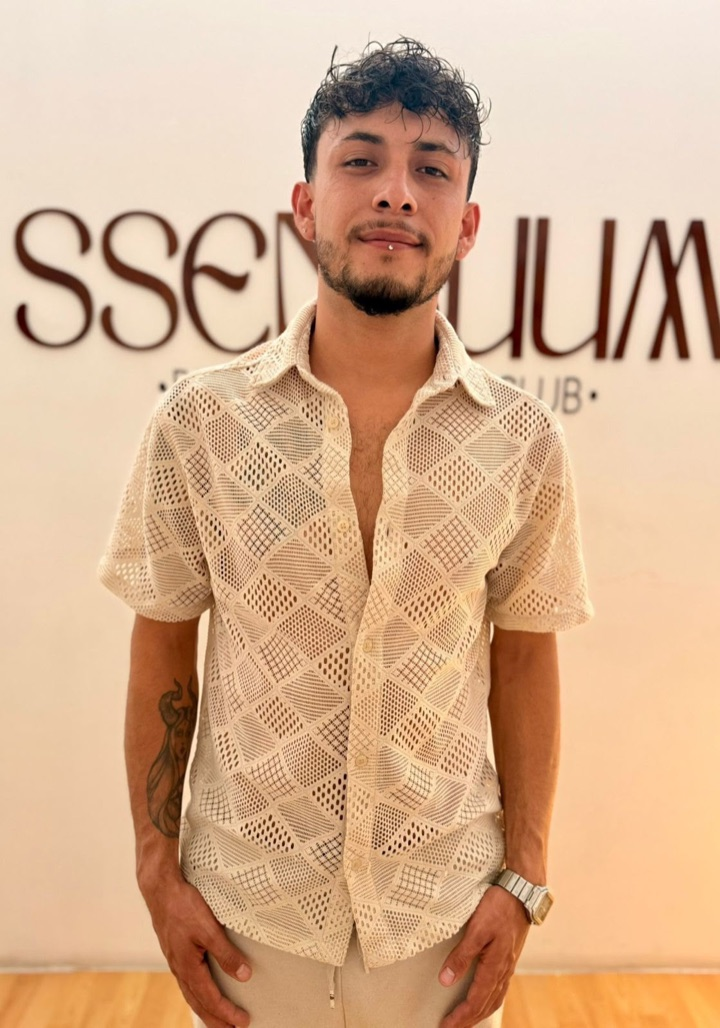
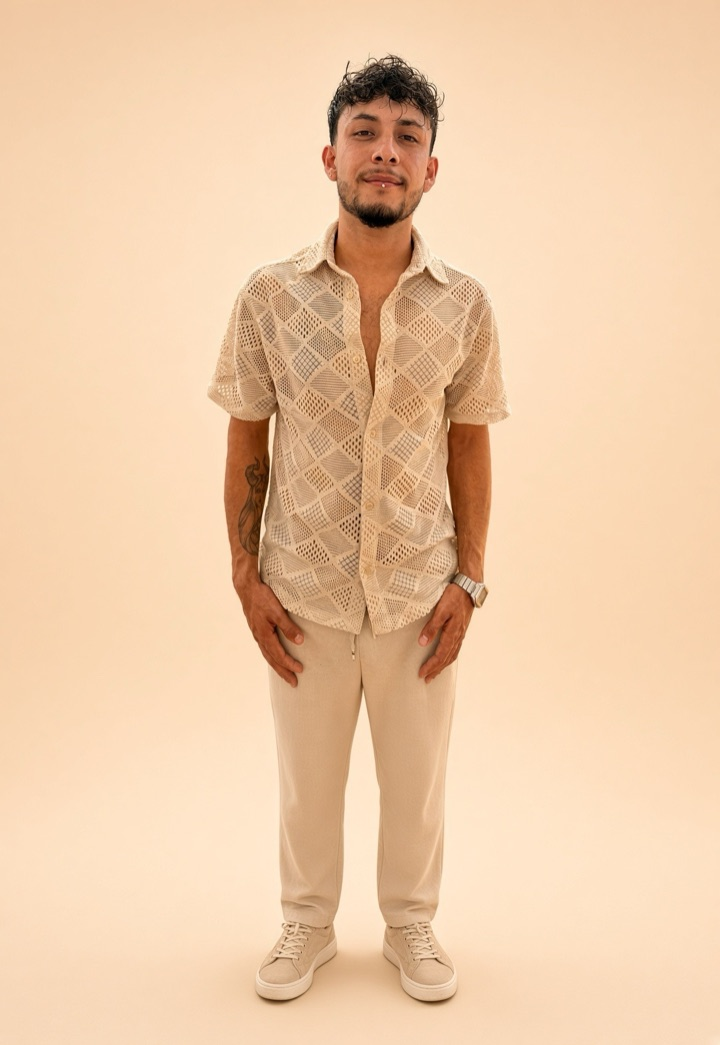
feat: service details, team bios and photos from the services brochure
- Each massage gets a "Cómo se realiza" section (new Service.details,
  synced on startup without touching prices).
- Therapists get strengths and bios from the brochure; Chicano joins the
  team; photos switch to the uniform studio shots.
- Booking summary shows the remaining balance and how to pay it; terms
  add payment methods and the birthday-massage rule; parking guidance.

diff --git a/web/app/terminos/page.tsx b/web/app/terminos/page.tsx
@@ -19,7 +19,8 @@ export default function TermsPage() {
         <ul>
           <li>Para confirmar tu reserva pagas un anticipo de <strong>$300</strong>, o de <strong>$600</strong> en servicios con dos terapeutas (masaje a 4 manos y masaje de parejas).</li>
           <li>El anticipo aplica para todos los clientes, <strong>incluidos los miembros del Private Club</strong>.</li>
-          <li>El anticipo <strong>se descuenta del total</strong> que pagas el día de tu servicio. Si eres miembro, se descuenta de tu precio de miembro.</li>
+          <li>El anticipo <strong>se descuenta del total</strong> que pagas el día de tu servicio. Si eres miembro, se descuenta de tu precio de miembro (por ejemplo, $1,200 − $300 = $900 restantes).</li>
+          <li>El restante se paga en el club con <strong>tarjeta, transferencia, efectivo o terminal bancaria</strong>.</li>
           <li>Los pagos en línea se procesan con Mercado Pago. Mientras pagas, tu horario queda apartado durante 15 minutos; si el pago no se completa en ese tiempo, el horario se libera.</li>
         </ul>
       </section>
@@ -47,6 +48,7 @@ export default function TermsPage() {
         <h2>Durante tu visita</h2>
         <ul>
           <li>Si la presión o el ambiente no son lo que esperabas, dínoslo: lo ajustamos durante los primeros 10 minutos de tu sesión.</li>
+          <li>El masaje de cumpleaños de la membresía Private Club es sin costo y sin anticipo, y se usa en la semana de tu cumpleaños. Si no asistes, se pierde el canje de ese año.</li>
           <li>Los tratamientos de medicina estética requieren una valoración previa y solo se realizan si el profesional de salud los considera adecuados para ti.</li>
         </ul>
       </section>

diff --git a/web/features/booking/BookingClient.tsx b/web/features/booking/BookingClient.tsx
@@ -205,7 +205,8 @@ export function BookingClient({ serviceId }: { serviceId: string }) {
               <div><dt>Hora</dt><dd>{time}</dd></div>
               <div><dt>Duración</dt><dd>{service.durationMinutes} min</dd></div>
               <div><dt>Total</dt><dd>{money(service.publicPrice)}</dd></div>
-              <div><dt>Anticipo</dt><dd>{money(service.deposit)}</dd></div>
+              <div><dt>Anticipo hoy</dt><dd>{money(service.deposit)}</dd></div>
+              <div><dt>Restante el día de tu cita</dt><dd>{money(service.publicPrice - service.deposit)}</dd></div>
             </dl>
             {paymentsOff ? (
               <>
@@ -229,7 +230,7 @@ export function BookingClient({ serviceId }: { serviceId: string }) {
                   {paying ? 'Abriendo Mercado Pago…' : `Pagar anticipo ${money(service.deposit)}`}
                 </button>
                 <p className="summaryNote">
-                  Pago seguro con Mercado Pago. El anticipo se descuenta del total y puedes cancelar o cambiar tu horario sin costo hasta 3 horas antes.
+                  Pago seguro con Mercado Pago. El restante lo pagas en el club con tarjeta, transferencia, efectivo o terminal; si eres miembro, se ajusta a tu precio. Puedes cancelar o cambiar tu horario sin costo hasta 3 horas antes.
                   Al pagar aceptas los <Link href="/terminos" target="_blank">términos de reserva</Link> y el <Link href="/aviso-de-privacidad" target="_blank">aviso de privacidad</Link>.
                 </p>
                 <a className="summaryLink" href={confirmUrl} target="_blank" rel="noreferrer" onClick={() => track('whatsapp_click', 'reserva-alterna')}>¿Prefieres confirmar por WhatsApp?</a>

diff --git a/web/features/catalog/Catalog.tsx b/web/features/catalog/Catalog.tsx
@@ -180,7 +180,7 @@ export function Catalog() {
           <ul>
             <li>Masajes a $1,200 en lugar de $1,500.</li>
             <li>Precio preferente en barbería y medicina estética.</li>
-            <li>Un masaje de regalo en la semana de tu cumpleaños.</li>
+            <li>Un masaje de regalo en la semana de tu cumpleaños, sin costo y sin anticipo.</li>
             <li>Doce meses desde tu fecha de inicio.</li>
           </ul>
           <p className="fusionMembershipMath"><strong>Se paga sola:</strong> 5 masajes a precio de miembro ($1,500 de ahorro) más tu masaje de cumpleaños ($1,500) suman los $3,000. Cada visita extra es ahorro.</p>
@@ -192,7 +192,7 @@ export function Catalog() {
       <section className="fusionSection fusionLocation" id="ubicacion">
         <div className="fusionSectionHeading">
           <div><span className="fusionKicker">Colonia Americana</span><h2>Dónde estamos</h2></div>
-          <p>Tenemos tres cajones para clientes frente a la finca, señalados en azul.</p>
+          <p>Tenemos tres cajones para clientes frente a la finca, señalados en azul. Las zonas en rojo son accesos y deben quedar libres; si los tres cajones están ocupados, avísanos al llegar.</p>
         </div>
         <div className="fusionLocationGrid">
           <div className="fusionLocationImage"><img src="/ssensuum/location.jpg" alt="Fachada de SSENSUUM y cajones de estacionamiento" /></div>

diff --git a/web/features/catalog/ServiceRow.tsx b/web/features/catalog/ServiceRow.tsx
@@ -16,6 +16,12 @@ export function ServiceRow({ service, onReserve, compact = false }: { service: S
           {service.therapistsRequired === 2 ? <span className="fusionTag fusionTagSoft">{service.name.toLowerCase().includes('pareja') ? 'Para dos personas' : 'Dos terapeutas'}</span> : null}
         </div>
         {!compact ? <p>{service.description}</p> : null}
+        {!compact && service.details ? (
+          <details className="fusionServiceDetails">
+            <summary>Cómo se realiza</summary>
+            <p>{service.details}</p>
+          </details>
+        ) : null}
         <small>{service.durationMinutes >= 60 ? `${Math.round(service.durationMinutes / 60 * 10) / 10} h` : `${service.durationMinutes} min`}</small>
       </div>
       <div className="fusionServicePurchase">

diff --git a/web/app/globals.css b/web/app/globals.css
@@ -587,3 +587,8 @@ svg { width: 1em; height: 1em; }
 }
 
 .avatar.hasPhoto { object-fit: cover; object-position: center 20%; padding: 0; }
+
+/* ========================= CÓMO SE REALIZA ========================= */
+.fusionServiceDetails { margin-top: 8px; }
+.fusionServiceDetails summary { width: fit-content; color: var(--nogal); font-size: .85rem; font-weight: 600; cursor: pointer; }
+.fusionServiceDetails p { margin: 8px 0 0; font-size: .88rem; line-height: 1.55; }

diff --git a/web/lib/types.ts b/web/lib/types.ts
@@ -8,6 +8,7 @@ export type Service = {
   memberPrice: number;
   deposit: number;
   therapistsRequired: number;
+  details: string | null;
 };
 
 export type Therapist = {

diff --git a/api/app/seed.py b/api/app/seed.py
@@ -43,16 +43,64 @@ SERVICES = [
     Service(id="aesthetic-removal", name="Retiro de tatuajes y lunares", category="Medicina estética", description="Según tamaño. Desde.", duration_minutes=60, public_price=600, member_price=450, deposit=300, therapists_required=1),
 ]
 
+# Cómo se realiza cada masaje (carta "Servicios y equipo" de SSENSUUM).
+SERVICE_DETAILS = {
+    "massage-special": "Un masaje hecho a tu medida: combinas diferentes técnicas y presiones en una misma sesión, y decides en qué zonas enfocarla: pies, espalda, piernas, glúteos y más.",
+    "swedish": "Se aplica con aceites sobre todo el cuerpo. El terapeuta combina deslizamientos, amasamiento, fricción y percusión en movimientos largos y rítmicos. La presión es ligera a media para soltar tensión superficial, activar la circulación e inducir calma.",
+    "descontracturante": "Se localizan nudos y contracturas (cuello, hombros, lumbar). Se trabaja con presión sostenida, amasamiento profundo y estiramientos cortos para liberar el músculo acortado y devolver movilidad.",
+    "four-hands": "Dos terapeutas trabajan tu cuerpo al mismo tiempo, en espejo y al mismo ritmo. Al recibir dos estímulos a la vez, el cuerpo deja de seguir el movimiento y se suelta antes. Eliges a los dos terapeutas al reservar.",
+    "deep-tissue": "Presión lenta y precisa sobre capas profundas y fascia. Se usa el antebrazo, los nudillos o el pulgar siguiendo la fibra muscular. Ideal para dolor crónico, postura y recuperación.",
+    "lymphatic": "Maniobras muy suaves, rítmicas y unidireccionales que siguen el flujo de la linfa hacia los ganglios. No es un masaje fuerte: estimula la eliminación de líquidos y reduce la inflamación.",
+    "sports": "Combina amasamiento, fricción transversal, movilizaciones y estiramientos. Se adapta a antes de competir (activar) o después del esfuerzo (recuperar), con enfoque en los grupos musculares de carga.",
+    "thai": "Sobre colchoneta o camilla, con ropa cómoda. El terapeuta usa palmas, pulgares y su propio peso para comprimir, estirar y abrir líneas de energía. Incluye posturas pasivas de yoga.",
+    "couples-massage": "Dos personas en la misma cabina, al mismo tiempo, cada quien con su terapeuta. Se trabaja la ruta completa de una hora en paralelo, con la música y la luz compartidas. Eligen a sus dos terapeutas al reservar.",
+    "aromatherapy": "Se elige una mezcla de aceites esenciales según el objetivo: calma, energía o respiración. El masaje sueco se realiza con ese aceite y el aroma acompaña la sesión.",
+    "bamboo": "Cañas de bambú templadas se ruedan y presionan sobre la musculatura. El cilindro permite una presión uniforme y profunda, deshace adherencias y deja una sensación de apertura.",
+}
+
 # Equipo actual. Al arrancar, la base se sincroniza con esta lista: quien ya no
 # aparece queda inactivo (sus reservas pasadas se conservan).
 THERAPISTS = [
-    {"id": "jairo", "name": "Jairo", "photo_url": "/ssensuum/equipo/jairo.jpg"},
-    {"id": "aleman", "name": "Alemán", "photo_url": "/ssensuum/equipo/aleman.jpg"},
-    {"id": "mazer", "name": "Mazer", "photo_url": "/ssensuum/equipo/mazer.jpg"},
-    {"id": "jessy", "name": "Jessy", "photo_url": "/ssensuum/equipo/jessy.jpg"},
-    {"id": "dany", "name": "Dany", "photo_url": "/ssensuum/equipo/dany.jpg"},
-    {"id": "kevin", "name": "Kevin", "photo_url": "/ssensuum/equipo/kevin.jpg"},
-    {"id": "paul", "name": "Paul", "photo_url": ""},
+    {
+        "id": "aleman",
+        "name": "Alemán",
+        "photo_url": "/ssensuum/equipo/aleman.jpg",
+        "strengths": "Cercanía · Confianza · Calma",
+        "bio": "Su trato cálido y relajado te hace sentir en confianza desde el primer momento. Alemán crea un ambiente ligero y sin prisas, "
+        "ideal si buscas desconectarte, soltar el estrés y disfrutar de una sesión cercana y amable.",
+    },
+    {
+        "id": "mazer",
+        "name": "Mazer",
+        "photo_url": "/ssensuum/equipo/mazer.jpg",
+        "strengths": "Serenidad · Detalle · Escucha",
+        "bio": "De presencia serena y mirada atenta, Mazer trabaja con calma y cuidado en cada movimiento. Escucha lo que tu cuerpo necesita "
+        "y guía la sesión con paciencia, perfecta para quienes buscan una experiencia pausada y reparadora.",
+    },
+    {
+        "id": "jessy",
+        "name": "Jessy",
+        "photo_url": "/ssensuum/equipo/jessy.jpg",
+        "strengths": "Enfoque · Discreción · Constancia",
+        "bio": "Jessy transmite enfoque y seriedad profesional. Respeta tus tiempos y tu espacio, y mantiene un ritmo constante durante "
+        "toda la sesión: ideal si valoras la discreción y un masaje sin distracciones.",
+    },
+    {
+        "id": "dany",
+        "name": "Dany",
+        "photo_url": "/ssensuum/equipo/dany.jpg",
+        "strengths": "Seguridad · Energía · Calidez",
+        "bio": "Seguro y cercano a la vez, Dany combina energía y calidez en cada sesión. Su confianza te hace sentir en buenas manos, "
+        "ideal si buscas liberar la tensión acumulada y terminar la sesión con energía renovada.",
+    },
+    {
+        "id": "jairo",
+        "name": "Jairo",
+        "photo_url": "/ssensuum/equipo/jairo.jpg",
+        "strengths": "Equilibrio · Amabilidad · Atención",
+        "bio": "Amable y de trato tranquilo, Jairo encuentra el equilibrio entre relajación y bienestar. Está atento a cada detalle de tu "
+        "comodidad y adapta la sesión a tu ritmo para que vivas una experiencia a tu medida.",
+    },
     {
         "id": "borja",
         "name": "Borja",
@@ -61,6 +109,16 @@ THERAPISTS = [
         "bio": "Formado en el trato profesional y la presentación impecable, Borja transmite orden y seguridad desde que entras a la sala. "
         "Trabaja con técnica cuidada y atención constante, ideal si buscas una sesión seria, puntual y bien ejecutada.",
     },
+    {
+        "id": "chicano",
+        "name": "Chicano",
+        "photo_url": "/ssensuum/equipo/chicano.jpg",
+        "strengths": "Presencia · Temple · Confianza",
+        "bio": "De presencia tranquila y trato directo, Chicano genera confianza desde el saludo. Trabaja con seguridad y ritmo constante, "
+        "ideal si buscas una sesión firme, sin prisas y con buena comunicación.",
+    },
+    {"id": "kevin", "name": "Kevin", "photo_url": "/ssensuum/equipo/kevin.jpg"},
+    {"id": "paul", "name": "Paul", "photo_url": ""},
 ]
 
 
@@ -70,6 +128,7 @@ def seed(db: Session) -> None:
         db.add_all(SERVICES)
 
     sync_therapists(db)
+    sync_service_details(db)
 
     db.commit()
 
@@ -86,3 +145,10 @@ def sync_therapists(db: Session) -> None:
         db.add(therapist)
     for therapist in db.scalars(select(Therapist).where(Therapist.id.not_in(current))).all():
         therapist.active = False
+
+
+def sync_service_details(db: Session) -> None:
+    for service_id, details in SERVICE_DETAILS.items():
+        service = db.get(Service, service_id)
+        if service:
+            service.details = details

diff --git a/api/app/models.py b/api/app/models.py
@@ -19,6 +19,8 @@ class Service(Base):
     member_price: Mapped[int] = mapped_column(Integer, nullable=False)
     deposit: Mapped[int] = mapped_column(Integer, nullable=False)
     therapists_required: Mapped[int] = mapped_column(Integer, nullable=False, default=1)
+    # Cómo se realiza el servicio, para quien quiere saber más antes de reservar.
+    details: Mapped[Optional[str]] = mapped_column(Text, nullable=True)
     active: Mapped[bool] = mapped_column(Boolean, nullable=False, default=True)
 
 

diff --git a/api/app/serializers.py b/api/app/serializers.py
@@ -14,6 +14,7 @@ def service_payload(service: Service) -> dict:
         "memberPrice": service.member_price,
         "deposit": service.deposit,
         "therapistsRequired": service.therapists_required,
+        "details": service.details,
     }
 
 
